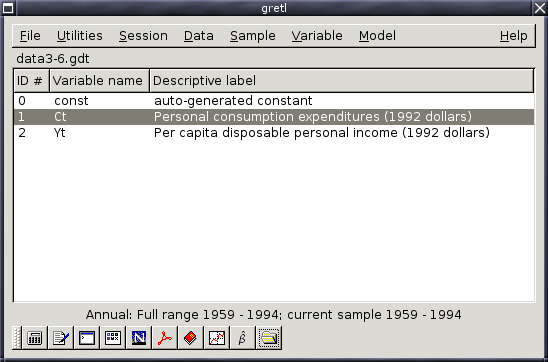
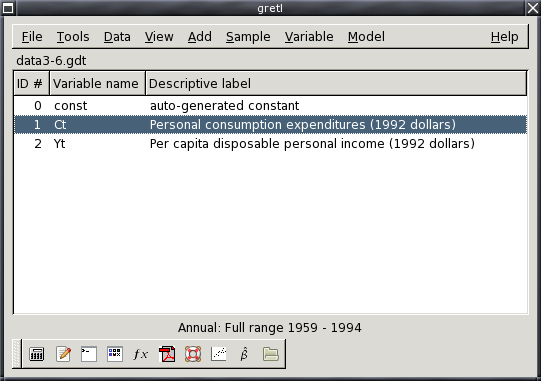
update screenshots in User's Guide

Changed region(s): [[0.0, 0.0, 1.0, 0.9724], [0.0, 0.0, 0.0296, 0.0608]]

diff --git a/doc/tex/starting.tex b/doc/tex/starting.tex
@@ -450,9 +450,7 @@ The icons have the following functions, reading from left to right:
 \item Open the gretl console.  A shortcut to the ``Gretl console''
   menu item (Section~\ref{menus} above).
 \item Open the \app{gretl} session icon window.
-\item Open the \app{gretl} website in your web browser.  This will
-  work only if you are connected to the Internet and have a properly
-  configured browser.
+\item Open a window displaying available gretl function packages.
 \item Open this manual in PDF format.
 \item Open the help item for script commands syntax (i.e.\ a listing
   with details of all available commands).
@@ -465,8 +463,8 @@ The icons have the following functions, reading from left to right:
 \end{enumerate}
 
 If you don't care to have the toolbar displayed, you can turn it off
-under the ``Tools, Preferences, General'' menu. Go o the Toolbar tab
-and uncheck the ``show gretl toolbar'' box.
+under the ``Tools, Preferences, General'' menu: just uncheck the
+bix labeled ``show gretl toolbar''.
 
 %%% Local Variables: 
 %%% mode: latex
